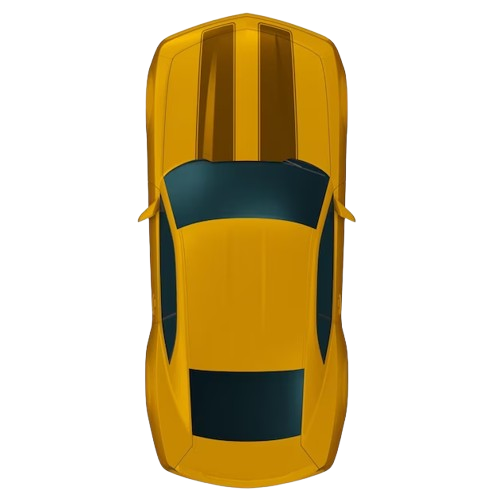
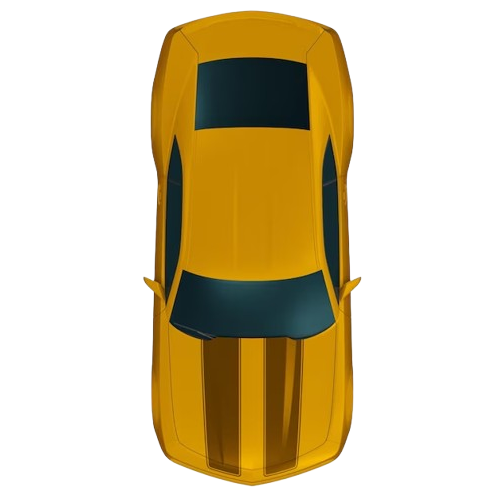
Cropped road and enemy car picture

Changed region(s): [[0.2705, 0.0, 0.7214, 0.992]]

diff --git a/kamoterider.js b/kamoterider.js
@@ -13,9 +13,9 @@ let carHeight = 100;
 let carSpeed = 3;
 
 let enemyCars = [];
-let enemyCarWidth = carWidth + 50;
-let enemyCarHeight = carHeight;
-let enemyCarSpeed = 3;
+let enemyCarWidth = carWidth;//100
+let enemyCarHeight = carHeight;//100
+let enemyCarSpeed = 4;
 
 let keys = {};
 let score = 0;
@@ -23,13 +23,14 @@ let gameActive = false;
 
 // Load images
 const road = new Image();
-road.src = "images/road.png";
-
+//road.src = "images/road.png";
+road.src = "images/cropRoad.png";
 const car = new Image();
 car.src = "images/Car1.png";
 
 const enemyCar = new Image();
-enemyCar.src = "images/EnemyCar.png";
+//enemyCar.src = "images/EnemyCar.png";
+enemyCar.src = "images/EnemyCar2.png";
 
 // UI Elements
 const startScreen = document.getElementById("startScreen");
@@ -66,7 +67,7 @@ function drawEnemyCars() {
 
 // Collision detection
 function detectCollision() {
-    const paddingX = 18; // Adjust horizontal collision sensitivity
+    const paddingX = 10; // Adjust horizontal collision sensitivity
     const paddingY = 0.02; // Adjust vertical collision sensitivity
 
     return enemyCars.some(enemy => (
@@ -127,8 +128,8 @@ function startGame() {
     gameOverScreen.style.display = "none";
     score = 0;
     scoreDisplay.innerText = score;
-    carX = canvas.width / 2 - carWidth / 2;
-    carY = canvas.height - 150;
+    carX = canvas.width / 2 - carWidth / 2;//400/2 = 200 - 50/2 = 175
+    carY = canvas.height - 150;//600 - 100 = 500
     roadY = 0;
     enemyCars = Array.from({ length: 5 }, () => ({
         x: Math.random() * (canvas.width - enemyCarWidth),
@@ -144,7 +145,7 @@ function startGame() {
 // Event listeners
 startButton.addEventListener("click", startGame);
 restartButton.addEventListener("click", startGame);
-
+//Control keys
 window.addEventListener("keydown", (e) => (keys[e.key.toLowerCase()] = true));
 window.addEventListener("keyup", (e) => (keys[e.key.toLowerCase()] = false));
 
